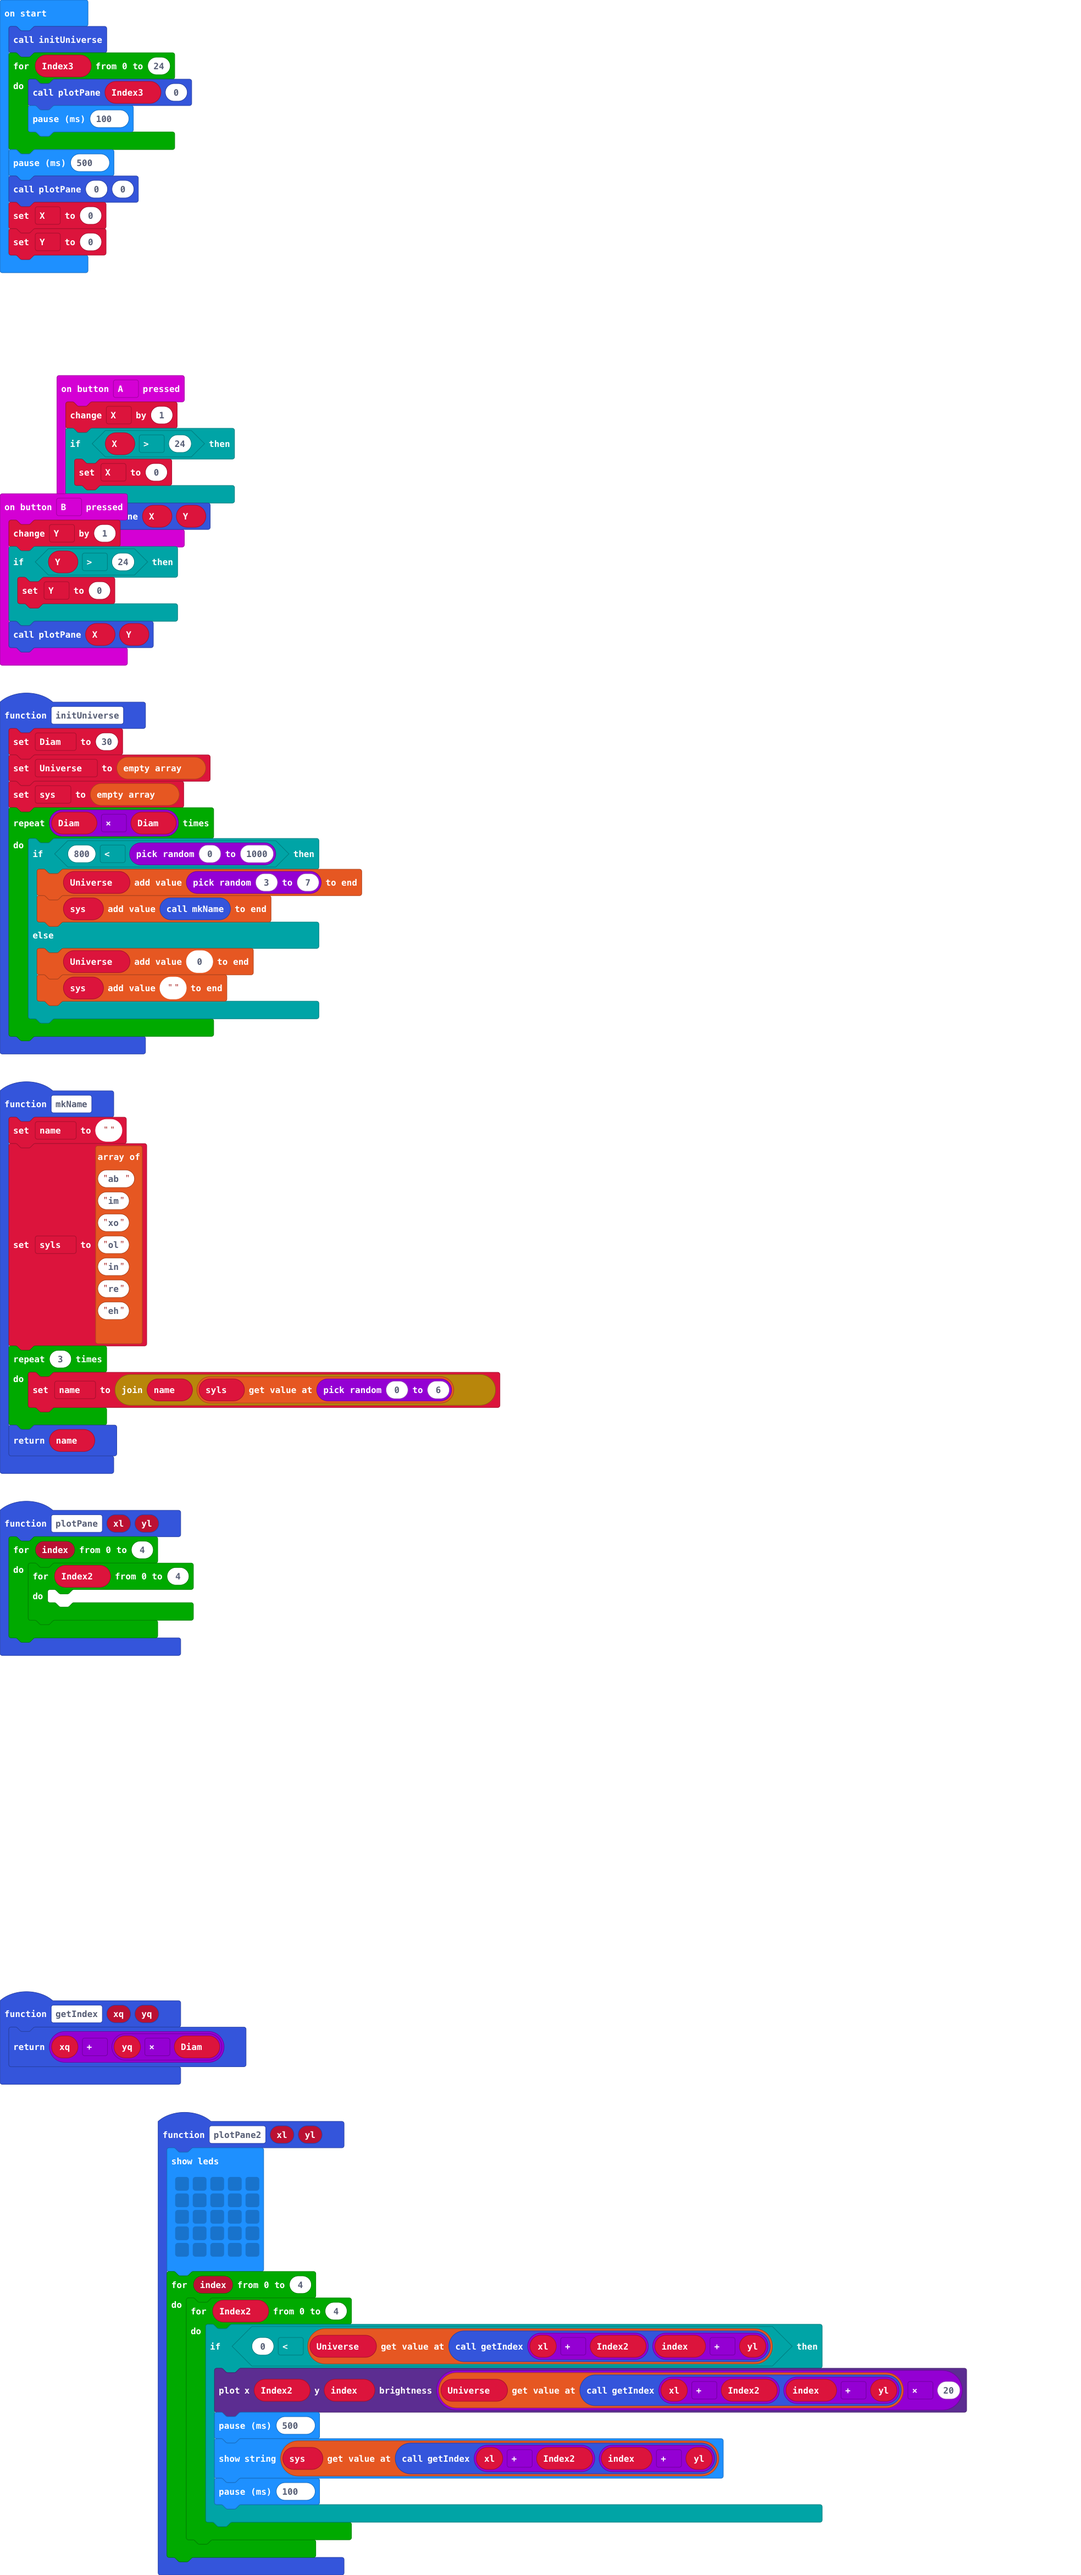
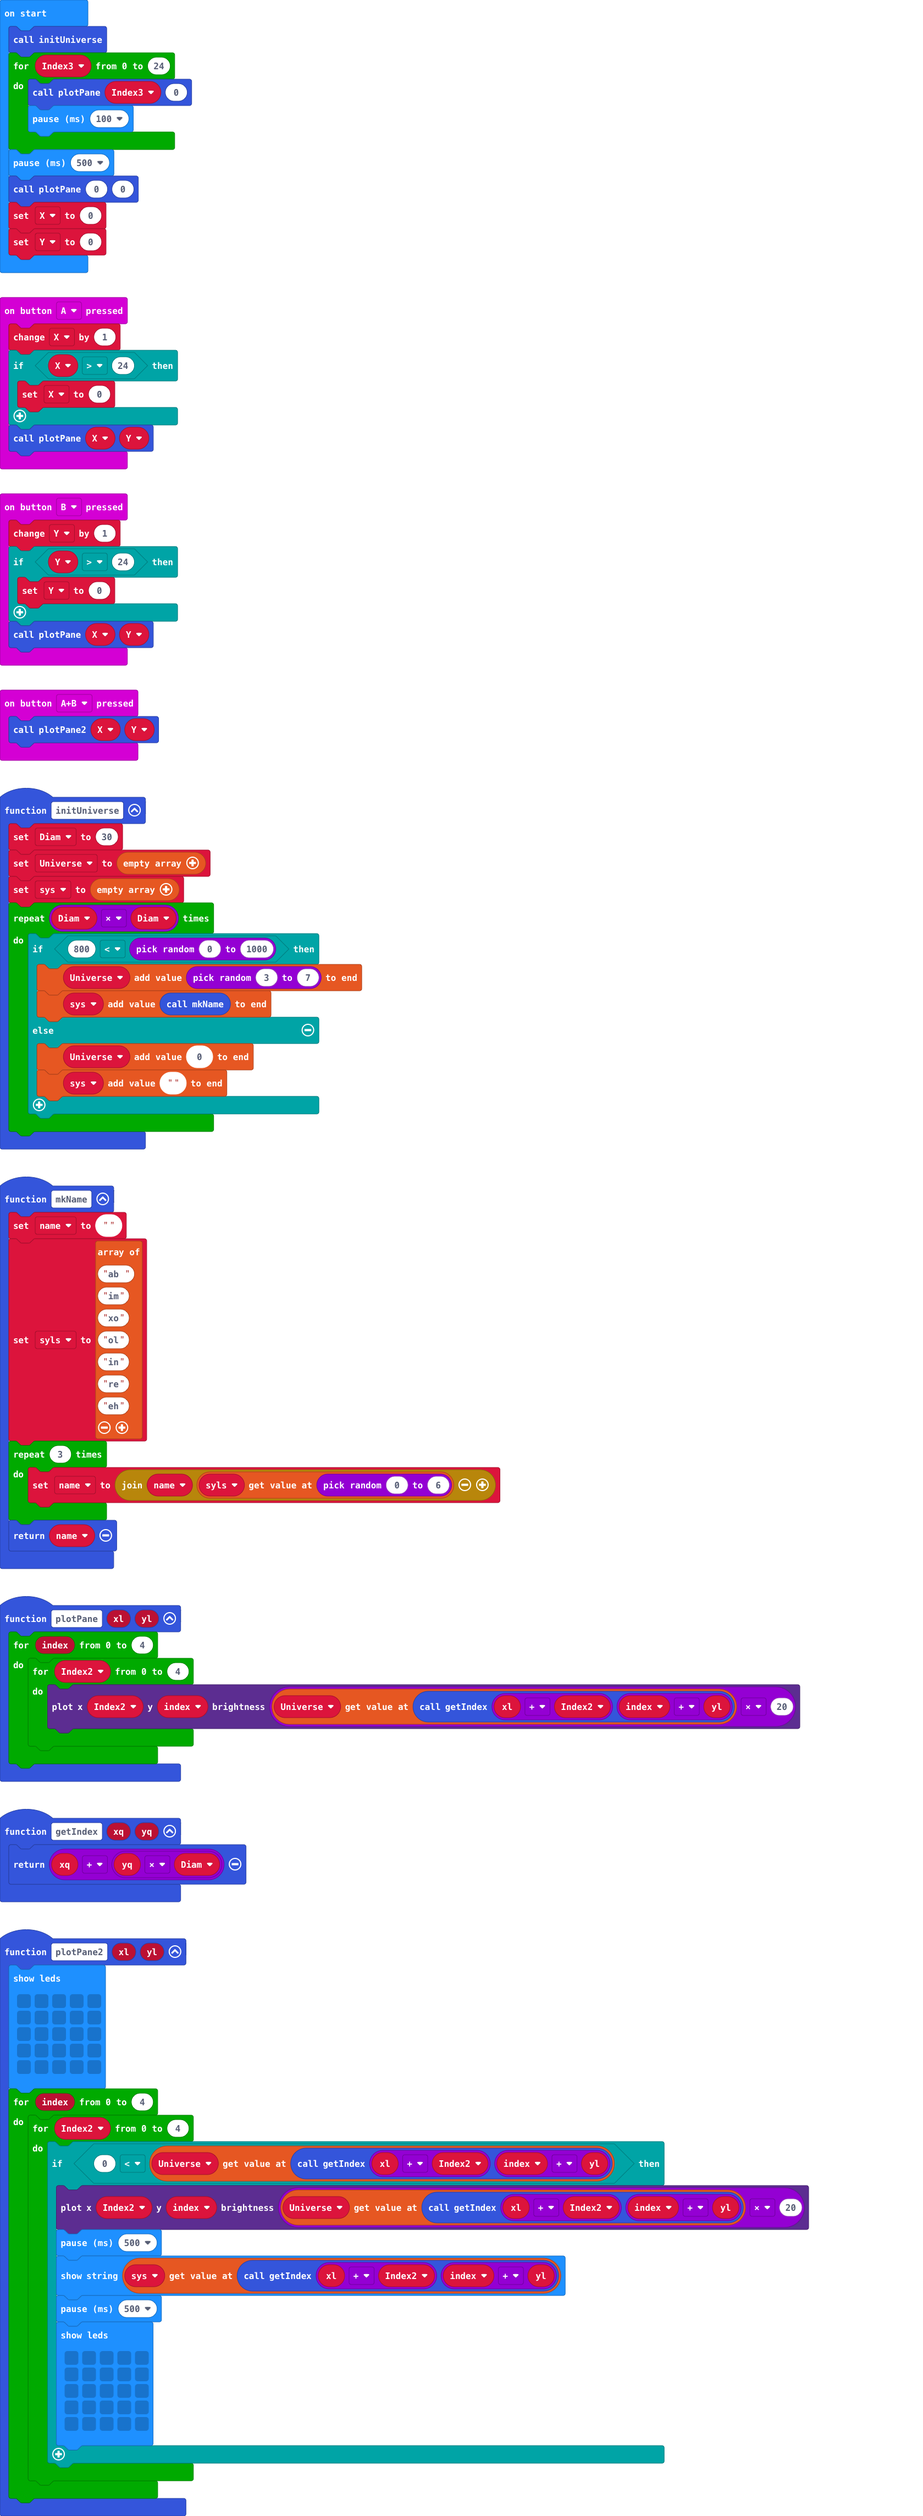
Update main.blocks, main.ts

Changed region(s): [[0.0, 0.0, 0.8982, 1.0], [0.7123, 0.9688, 0.7743, 1.0]]

diff --git a/main.ts b/main.ts
@@ -38,11 +38,21 @@ function plotPane2 (xl: number, yl: number) {
                 led.plotBrightness(Index2, index, Universe[getIndex(xl + Index2, index + yl)] * 20)
                 basic.pause(500)
                 basic.showString(sys[getIndex(xl + Index2, index + yl)])
-                basic.pause(100)
+                basic.pause(500)
+                basic.showLeds(`
+                    . . . . .
+                    . . . . .
+                    . . . . .
+                    . . . . .
+                    . . . . .
+                    `)
             }
         }
     }
 }
+input.onButtonPressed(Button.AB, function () {
+    plotPane2(X, Y)
+})
 input.onButtonPressed(Button.B, function () {
     Y += 1
     if (Y > 24) {
@@ -67,7 +77,7 @@ function initUniverse () {
 function plotPane (xl: number, yl: number) {
     for (let index = 0; index <= 4; index++) {
         for (let Index2 = 0; Index2 <= 4; Index2++) {
-        	
+            led.plotBrightness(Index2, index, Universe[getIndex(xl + Index2, index + yl)] * 20)
         }
     }
 }
